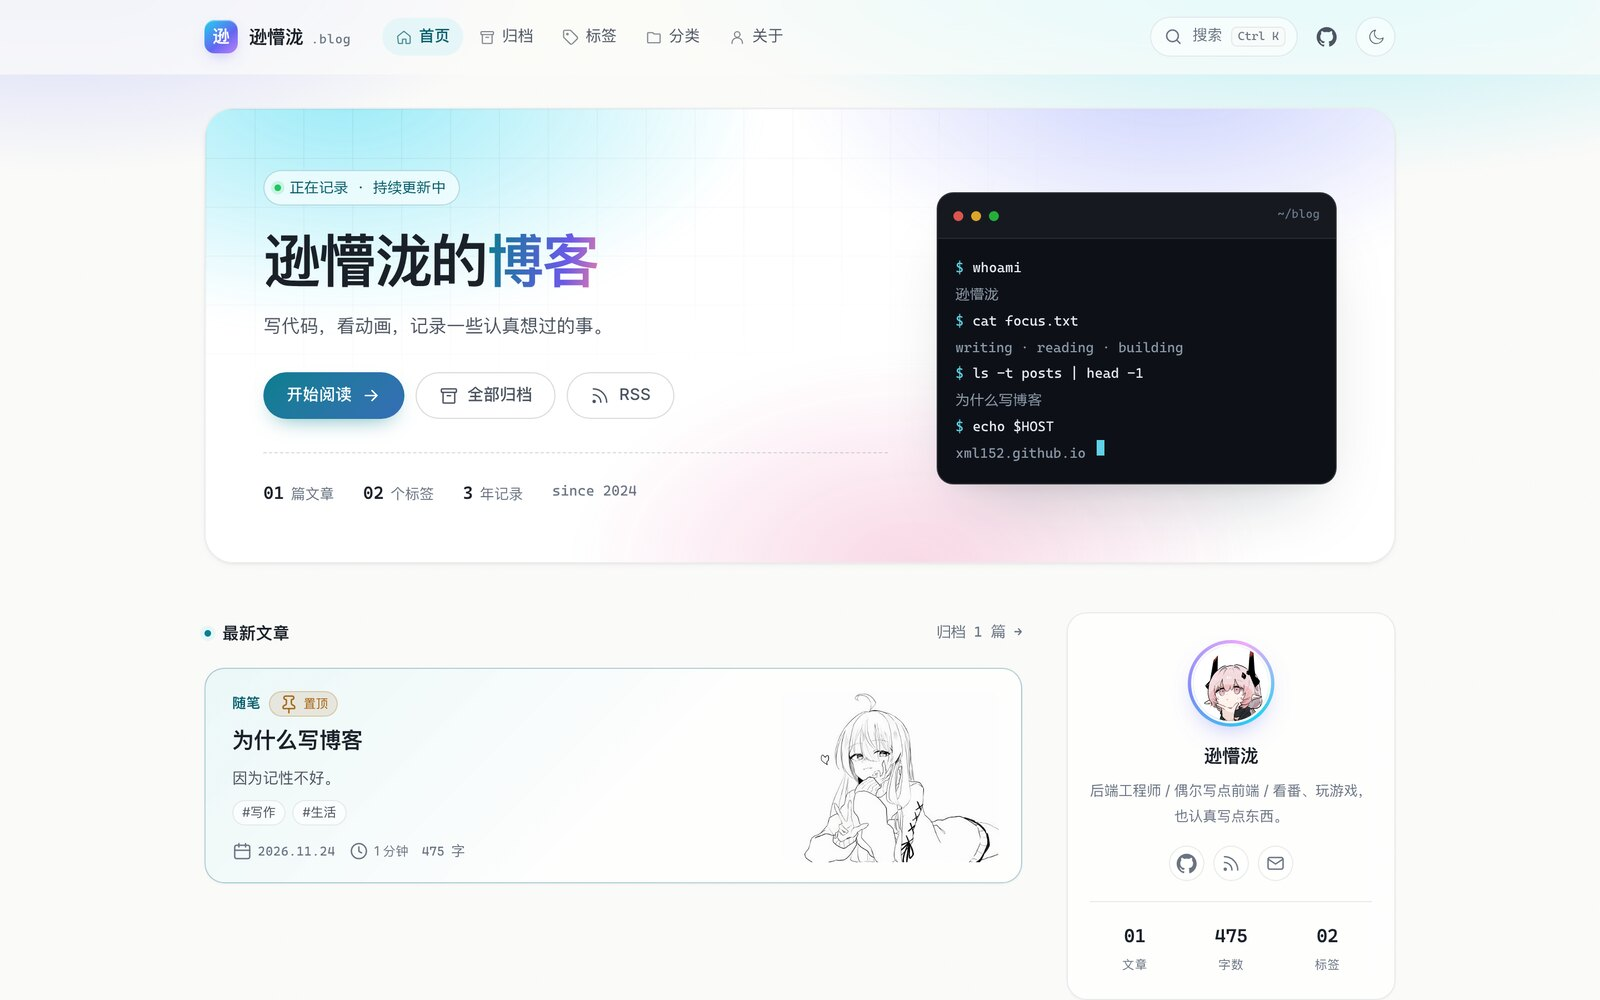
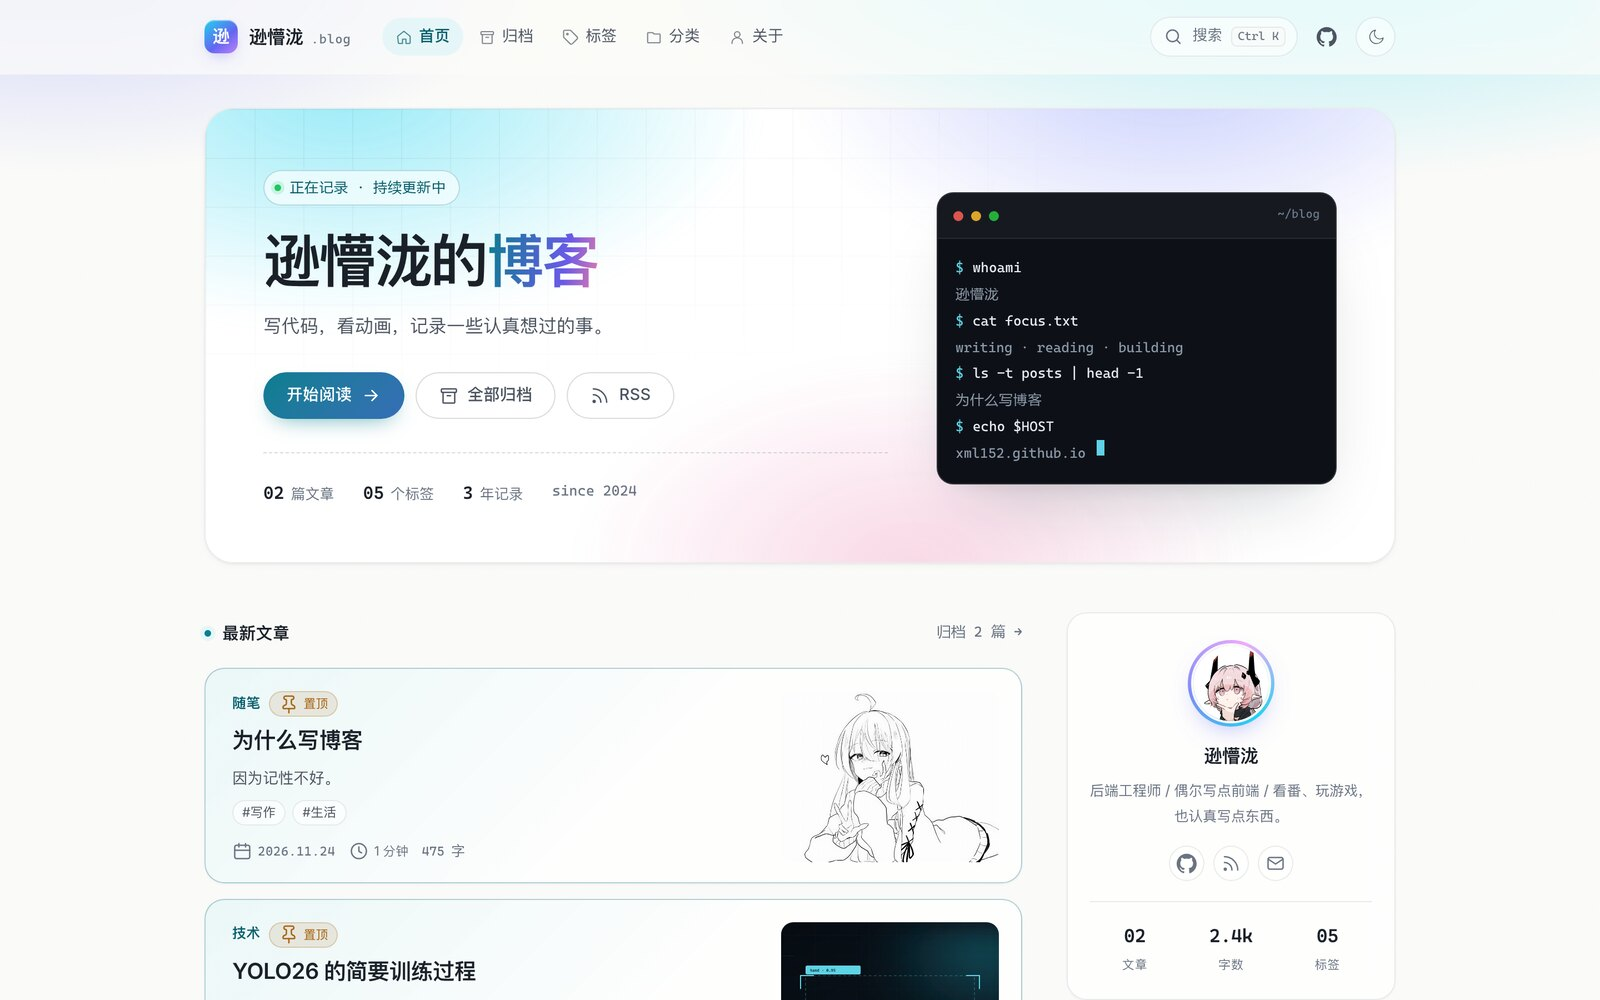
新增yolo26到龙芯2k0300训练&量化简要说明

Changed region(s): [[0.4688, 0.899, 0.625, 1.0], [0.125, 0.899, 0.3125, 0.992], [0.75, 0.93, 0.7812, 0.961]]

diff --git a/src/content/posts/yolo26简要训练.md b/src/content/posts/yolo26简要训练.md
@@ -1,0 +1,325 @@
+---
+title: 'YOLO26 的简要训练过程'
+description: '从 uv 环境、手势数据集、训练参数，到 NCNN 导出与 INT8 量化：把 YOLO26n 压到 2.46MB 的完整记录，以及踩过的坑。'
+published: 2026-11-24
+category: 技术
+tags: ['YOLO', '深度学习', '模型量化']
+cover: /covers/yolo26.jpg
+coverAlt: '深色网格背景上的 YOLO26 检测框与标题'
+pinned: true
+---
+
+本文主要写一下关于 YOLO26 训练和部分量化的过程。
+
+目标不是刷指标，而是把模型压到一块龙芯 2K0300 上（LA264 单核，没有 LSX/LASX），验证「训练 → 导出 → 量化 → 推理」这条链路能不能跑通。模型选了 YOLO26n，任务是 10 类手势检测，输入 640×640。
+
+## 环境和硬件
+
+训练在 x86 开发机上完成，部署目标是另一块板子。所以下文的速度数据只在 x86 上有意义，不能直接换算成板端帧率。
+
+| 项目 | 配置 |
+| --- | --- |
+| CPU | Intel i5-12400F（6 核 12 线程） |
+| 内存 | 16GB |
+| 硬盘 | 2TB NVMe，训练时可用约 1.1TB |
+| 显卡 | NVIDIA RTX 3060 12GB |
+| 系统 | Arch Linux |
+| Python | 3.11（`.python-version`） |
+| Ultralytics | 8.4.193 |
+| PyTorch | 2.15.0+cu132 |
+
+显卡驱动要先装好。Arch 下装 `nvidia`、`nvidia-utils`（或者 `nvidia-open`），重启后 `nvidia-smi` 能看到卡再开始。CUDA 运行时由 PyTorch 的 wheel 自带，不需要额外装 CUDA Toolkit。
+
+## 安装虚拟环境
+
+用 uv 管依赖，省得和系统 Python 打架：
+
+```bash
+# 初始化一个文件夹
+uv init yolo26
+cd yolo26
+uv add ultralytics
+```
+
+之后所有脚本都用 `uv run` 跑，它会自动使用项目里的 `.venv`：
+
+```bash
+uv run main.py
+```
+
+### 导出依赖是自动装的，但别被 `uv sync` 坑了
+
+第一次导出 ONNX / NCNN 时，Ultralytics 会自己装缺的包，日志里能看到：
+
+```text
+requirements: Ultralytics requirements ['onnx>=1.12.0,<2.0.0', ...] not found, attempting AutoUpdate...
+AutoUpdate success ✅
+```
+
+这些包**不在** `pyproject.toml` 和 `uv.lock` 里。`uv run` 会补装、不会清理；但 `uv sync` 会把它们当成多余依赖卸掉（实测提示 `Would uninstall 9 packages`，onnx、ncnn、pnnx 都在里面）。
+
+所以稳妥的做法是显式写进项目依赖：
+
+```bash
+uv add onnx onnxruntime onnxslim ncnn "pnnx==20260526"
+```
+
+临时关闭自动安装可以设 `YOLO_AUTOINSTALL=False`，但一般没必要。
+
+## 准备数据集
+
+数据可以下载现成的，也可以用 labelImg / labelme 自己标。格式统一成 YOLO 检测格式：
+
+```text
+datasets/<name>/
+├── data.yaml
+├── images/train/*.png
+├── images/val/*.png
+├── labels/train/*.txt
+└── labels/val/*.txt
+```
+
+图像和标签必须**一一对应且同名**（`images/train/a.png` ↔ `labels/train/a.txt`），标签每行是 `类别ID 中心x 中心y 宽 高`，坐标都归一化到 0~1。
+
+手势数据集是 10 类、1200 张训练 / 200 张验证，原图 1280×960：
+
+```yaml
+path: datasets/hands_gesture
+train: images/train
+val: images/val
+
+nc: 10
+names: [A, 'number 7', D, I, L, V, W, Y, 'I love you', 'number 5']
+```
+
+项目里还放了一个 3 类的电池数据集（689 张训练 / 173 张验证），验证换数据集只需要改 `data` 指向。
+
+这里有个很容易踩的格式坑：`names` 必须写成列表或 `{id: name}` 字典。写成无缩进的裸文本会被 YAML 解析成字符串，训练直接报：
+
+```text
+TypeError: 'names' must be list or dict, not str
+```
+
+## 编写训练参数
+
+入口就一个 `main.py`，参数都在 `model.train()` 里：
+
+```python
+from ultralytics import YOLO
+
+model = YOLO("./yolo26n.pt")
+
+model.train(
+    data="datasets/hands_gesture/data.yaml",
+    epochs=300,      # 总轮次
+    imgsz=640,       # 输入尺寸
+    batch=32,        # 单卡一次喂 32 张
+    workers=8,       # 数据加载线程
+    cache="ram",     # 图像解码后常驻内存
+    amp=True,        # 混合精度
+    val=True,        # 每轮验证，早停依赖它
+    patience=50,     # 50 轮不提升就停
+    plots=False,     # 不画训练曲线，省时间
+    name="train",
+)
+```
+
+几个参数的实际影响：
+
+| 参数 | 说明 |
+| --- | --- |
+| `epochs=300` + `patience=50` | 正常不会跑满，指标停滞 50 轮就停 |
+| `imgsz=640` | 导出和量化校准都要保持 640，别中途改 |
+| `batch=32` | 12GB 显存够用，再大就要看显存 |
+| `workers=8` | 6 核 12 线程，设 8 比较合适 |
+| `cache="ram"` | 1200 张图解码后约占 4.4GB，内存够就开 |
+| `val=True` | 关掉会更快，但早停失效、`best.pt` 不可靠 |
+| `plots=False` | 不需要曲线图时关掉 |
+
+关于速度，实测最有效的就是 `cache="ram"`。同样前 4 轮累计耗时：
+
+| 配置 | 4 轮累计 |
+| --- | --- |
+| 无缓存 + `val=False` | 41.69s |
+| `cache="ram"` + `val=False` | 32.76s |
+| `cache="ram"` + `val=True` | 33.89s |
+
+缓存省了大约 21%，而每轮验证只多 0.5~0.6s，换来可靠的早停和 `best.pt`，很划算。优化器、学习率这些参数只影响收敛质量，不影响每轮耗时，别指望靠它们提速。
+
+> 小提示：`YOLO("./yolo26n.pt")` 在当前目录找不到时，会去全局 `weights_dir` 找（本项目是 `weights/yolo26n.pt`），再找不到才下载。换目录运行可能触发重新下载，想确定就直接写全路径。
+
+## 目录结构
+
+项目按「训练 / 导出 / 测试」分开，跑起来不容易乱：
+
+```text
+yolo26/
+├── main.py                        # 训练入口
+├── pyproject.toml                 # 依赖声明（uv 管理）
+├── weights/
+│   └── yolo26n.pt                 # 预训练权重
+├── datasets/
+│   ├── hands_gesture/             # 手势：10 类，1200/200
+│   │   ├── data.yaml
+│   │   ├── images/{train,val}
+│   │   └── labels/{train,val}
+│   └── betterys/                  # 电池：3 类，689/173
+│       ├── data.yaml
+│       ├── images/{train,val}
+│       └── labels/{train,val}
+├── export/
+│   ├── ncnn/                      # FP32 导出、内置 INT8 导出（未采用）
+│   └── onnx/                      # FP32 / INT8 导出
+├── test/
+│   ├── test_pt.py                 # PyTorch 冒烟
+│   ├── test_onnx.py               # ONNX 冒烟
+│   ├── test_onnx_compare.py       # ONNX FP32 vs INT8
+│   ├── test_ncnn.py               # NCNN 冒烟
+│   ├── test_ncnn_int8.py          # NCNN FP32 vs INT8
+│   └── ncnn_calib_list.txt        # 200 张校准集路径
+└── runs/detect/train/
+    ├── args.yaml                  # 本次训练的全部参数
+    ├── results.csv                # 每轮指标
+    └── weights/
+        ├── best.pt                # 最优权重，5.3MB
+        ├── best.onnx              # ONNX FP32，9.9MB
+        ├── best_int8.onnx         # ONNX INT8，2.9MB
+        ├── best_ncnn_model/       # NCNN FP32，9.25MB
+        └── best_int8_ncnn_model/  # NCNN INT8，2.46MB
+```
+
+## 训练结果
+
+```bash
+uv run main.py
+```
+
+输出在 `runs/detect/train/`。这次实际在第 66 轮早停，总耗时 453s，约 6.9s/轮：
+
+| 指标 | 第 16 轮（best.pt） | 第 66 轮（last.pt） |
+| --- | --- | --- |
+| Precision | 0.957 | 0.992 |
+| Recall | 0.961 | 0.966 |
+| mAP50 | 0.991 | 0.995 |
+| mAP50-95 | **0.803** | 0.767 |
+| 累计耗时 | 113s | 453s |
+
+`best.pt` 是按 mAP50-95 挑的，所以最后几轮指标回落也正常，部署直接用第 16 轮的权重就行。
+
+换成电池数据集只改 `data=` 一行，`nc` / `names` 会从对应的 `data.yaml` 自动读，不用动代码。
+
+## 导出 ONNX（备用）
+
+部署路线最后选了 NCNN，ONNX 留作对照和桌面端推理。脚本就两行核心逻辑：
+
+```python
+model = YOLO("runs/detect/train/weights/best.pt")
+model.export(format="onnx", imgsz=640, dynamic=False, simplify=True)
+```
+
+INT8 版本加一个 `int8=True`，走 Ultralytics 内置量化。产物规格：
+
+| 项 | 值 |
+| --- | --- |
+| 体积 | FP32 9.9MB / INT8 2.9MB |
+| IR / opset | 8 / 18 |
+| 输入 | `images`，`[1, 3, 640, 640]`，FP32，值域 0~1 |
+| 输出 | `output0`，`[1, 14, 8400]` |
+| 8400 | 80² + 40² + 20² 三个尺度的锚点 |
+| 后处理 | 图里没有 NMS，也没有 objectness 分支，需要自己解码 |
+
+`14 = 4(框) + 10(类别)`，所以 `pred[:, 4:]` 取 max 就是类别置信度；前 4 个是 `cx, cy, w, h`，单位是 640 输入下的像素。自己写推理的话，别忘了按原图比例还原并做 NMS；不想写就直接用 `YOLO("best.onnx")` 让 Ultralytics 代劳。
+
+## 导出 NCNN 与 INT8 量化
+
+目标板是 LA264 单核，没有 LSX/LASX 向量扩展，跑 PyTorch 不现实；NCNN 的运行时更轻，也不拖 Python 依赖，所以最终选它。
+
+FP32 导出很简单：
+
+```bash
+uv run export/ncnn/export_ncnn.py
+# 产物：runs/detect/train/weights/best_ncnn_model/（9.25MB）
+```
+
+INT8 用的是 ncnn 自带工具链手动量化，校准方法选 ACIQ：
+
+```bash
+# 1. FP32 优化
+ncnnoptimize \
+  runs/detect/train/weights/best_ncnn_model/model.ncnn.param \
+  runs/detect/train/weights/best_ncnn_model/model.ncnn.bin \
+  /tmp/ncnn_opt.param /tmp/ncnn_opt.bin 0
+
+# 2. 生成校准表（200 张 val 图，预处理必须和推理一致）
+ncnn2table /tmp/ncnn_opt.param /tmp/ncnn_opt.bin \
+  test/ncnn_calib_list.txt /tmp/best_aciq.table \
+  'mean=[0,0,0]' 'norm=[0.00392,0.00392,0.00392]' \
+  'shape=[640,640,3]' pixel=RGB thread=8 method=aciq
+
+# 3. 量化（注意是旧式参数顺序）
+ncnn2int8 /tmp/ncnn_opt.param /tmp/ncnn_opt.bin \
+  /tmp/int8_aciq.param /tmp/int8_aciq.bin /tmp/best_aciq.table
+
+# 4. 组装成 Ultralytics 能直接加载的目录
+D=runs/detect/train/weights/best_int8_ncnn_model
+mkdir -p $D
+cp /tmp/int8_aciq.param $D/model.ncnn.param
+cp /tmp/int8_aciq.bin  $D/model.ncnn.bin
+cp runs/detect/train/weights/best_ncnn_model/metadata.yaml $D/
+```
+
+量化工具来自系统包 `ncnn 20261020-1`（Arch 的 extra 仓库），提供 `ncnnoptimize` / `ncnn2table` / `ncnn2int8`。注意 pip 里的 `ncnn` 只含推理库，不含这些工具，两者不能互相替代。
+
+x86 开发机上的对比（`test/test_ncnn_int8.py`，预热 5 次、计时 50 次取均值）：
+
+| 指标 | NCNN FP32 | NCNN INT8（ACIQ） |
+| --- | --- | --- |
+| 体积 | 9.25MB | 2.46MB（-73%） |
+| 端到端均值 | 44.71ms | 34.49ms（-23%） |
+| conf | 0.3274 | 0.3804 |
+| 检测结果 | 1 框 | 1 框，类别一致，框坐标最大差 4.07px |
+
+体积砍掉七成、精度基本没丢，这个结果我是满意的。板端的具体帧率还没测，等部署环境搭好再补。
+
+## 踩过的坑
+
+### KL 校准把置信度打没了
+
+最开始用的是默认的 KL 校准，置信度直接从 0.3274 掉到 0.157，低于 Ultralytics 默认阈值 0.25，结果就是「明明有手，但输出 0 个框」。
+
+换 ACIQ 之后 conf 反而比 FP32 还高一点（0.3804）。YOLO26 里有 attention 层，KL 的直方图统计对这类激活分布偏激进。换模型后建议 KL 和 ACIQ 都测一遍再定。
+
+### 校准预处理必须和推理完全一致
+
+这个模型的归一化不在 ncnn 计算图里（Input 层没有 mean/scale），Ultralytics 后端是直接喂 letterbox 后的 RGB 0~1 数组。所以校准参数必须严格对应：
+
+- 颜色：RGB，不能是 OpenCV 默认的 BGR
+- `mean=[0,0,0]`、`norm=[1/255,...]`
+- 尺寸 640×640，letterbox 的 pad 用 114
+
+任何一项不一致，scale 表就是错的，量化后精度会莫名其妙地掉。
+
+### `ncnn2int8` 是旧式参数顺序
+
+它是 `in.param in.bin out.param out.bin table`。按新式顺序传，校准表会落到第 6 个参数上，直接报 `read_int8scale_table failed`。
+
+### `uv sync` 会卸掉自动装的导出依赖
+
+前面提过，导出包是 Ultralytics 临时装的，`uv sync` 一跑就没了，再导出报 `No module named 'onnx'` / `'ncnn'`。要么重新跑一次导出让它再装，要么老老实实 `uv add`。
+
+### 自己写推理验证时最容易骗自己
+
+我用 pyncnn 手写推理时连续踩了两个假阴性：
+
+1. 用 `resize` 而不是 letterbox 预处理，FP32 也检测不到目标；
+2. letterbox 之后没有 `np.ascontiguousarray`，pyncnn 按 C-order 读 buffer 错位，输出全是垃圾。
+
+修正后 FP32 能精确复现 0.3274 的置信度，验证结果才可信。另外当时还怀疑过 ncnn 工具把 param 里的参数键弄丢了，对照源码才发现那些键都能由默认值和对称性推导出来，并没有丢——差点写个「修复脚本」修一个不存在的问题。
+
+## 小结
+
+训练本身反而是最省心的一步：数据格式对、参数别乱改、把 `cache="ram"` 打开，剩下的交给早停。真正花时间的是后面：预处理一致性、校准方法、工具参数顺序，任何一个不对都会以「精度掉了」的形式表现出来，很难一眼定位。
+
+下一步准备把模型移到板子上实测帧率，再用 C++ 对齐一遍预处理；电池数据集也打算找时间跑一版对比。完整代码和命令都在项目里，这里只挑了容易踩坑的部分。
+
+如果你也在做类似的部署，希望这几条能帮你少调一晚上。
